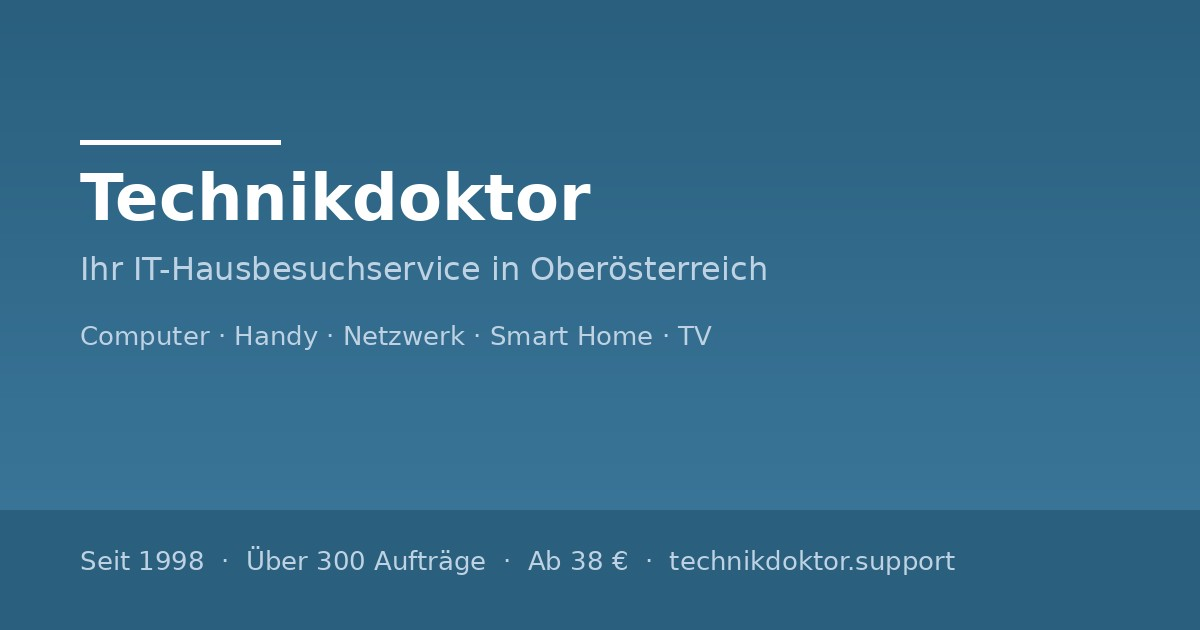
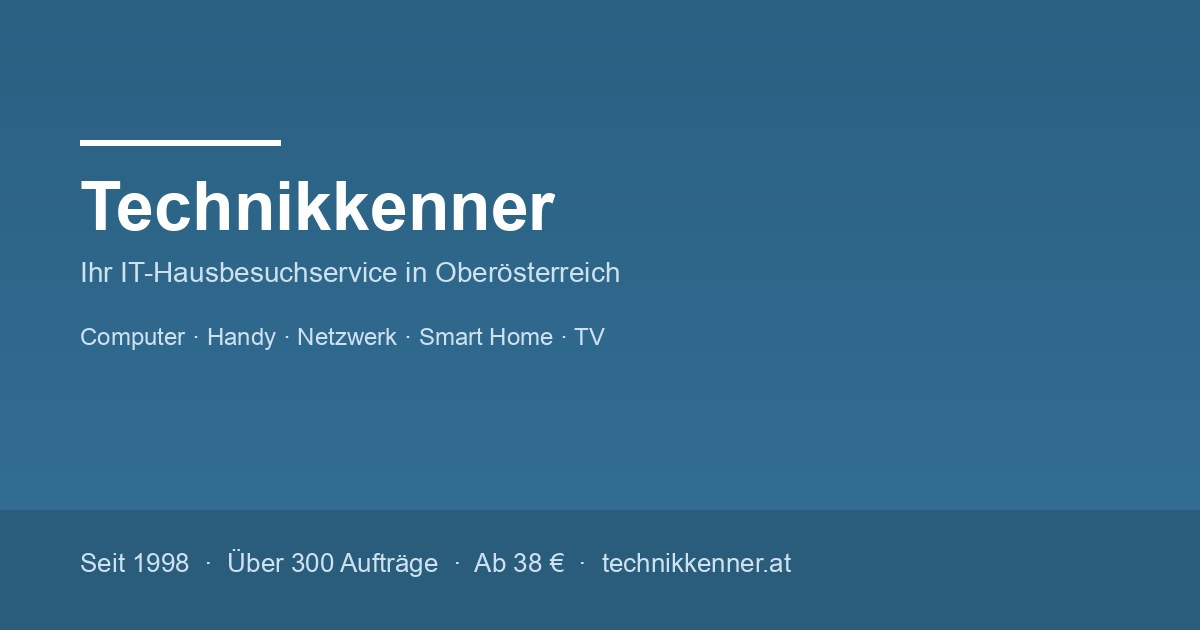
Rename site to Technikkenner and move to technikkenner.at / Website in Technikkenner umbenennen und auf technikkenner.at umstellen
Contact e-mail stays hilfe@technikdoktor.support; add Leonding, Traun, Wels, Eferding to areaServed; new preview image. / Kontakt-E-Mail bleibt hilfe@technikdoktor.support; Leonding, Traun, Wels, Eferding als Einzugsorte; neues Vorschaubild.

diff --git a/index.html b/index.html
@@ -3,12 +3,12 @@
 <head>
     <meta charset="UTF-8">
     <meta name="viewport" content="width=device-width, initial-scale=1.0">
-    <title>Technikdoktor – IT-Hausbesuch in Linz & Oberösterreich | Computer, Handy & Netzwerk Hilfe</title>
-    <meta name="description" content="Technikdoktor – Ihr mobiler IT-Hausbesuchservice seit 1998. Über 300 Aufträge seit Juli 2025. Computer, Handy, WLAN, Smart-Home Hilfe direkt bei Ihnen zu Hause in Linz & ganz Oberösterreich. Ab 38 €.">
-    <meta name="keywords" content="IT Hausbesuch Linz, Computer Hilfe Oberösterreich, Handy Hilfe, WLAN Probleme, Technikdoktor, PC Reparatur Hausbesuch, Smart Home Einrichtung, Netzwerk Hilfe, Technik Support Linz, Smartphone Hilfe Oberösterreich">
+    <title>Technikkenner – IT-Hausbesuch in Linz & Oberösterreich | Computer, Handy & Netzwerk Hilfe</title>
+    <meta name="description" content="Technikkenner – Ihr mobiler IT-Hausbesuchservice seit 1998. Über 300 Aufträge seit Juli 2025. Computer, Handy, WLAN, Smart-Home Hilfe direkt bei Ihnen zu Hause in Linz & ganz Oberösterreich. Ab 38 €.">
+    <meta name="keywords" content="IT Hausbesuch Linz, Computer Hilfe Oberösterreich, Handy Hilfe, WLAN Probleme, Technikkenner, PC Reparatur Hausbesuch, Smart Home Einrichtung, Netzwerk Hilfe, Technik Support Linz, Smartphone Hilfe Oberösterreich">
     <meta name="author" content="Christian Nouza – LinguaFlow e.U.">
     <meta name="robots" content="index, follow">
-    <link rel="canonical" href="https://technikdoktor.support/">
+    <link rel="canonical" href="https://technikkenner.at/">
 
     <!-- Favicon -->
     <link rel="icon" type="image/png" href="favicon.png">
@@ -16,20 +16,20 @@
 
     <!-- Open Graph / Facebook -->
     <meta property="og:type" content="website">
-    <meta property="og:url" content="https://technikdoktor.support/">
-    <meta property="og:title" content="Technikdoktor – IT-Hausbesuch in Linz & Oberösterreich">
+    <meta property="og:url" content="https://technikkenner.at/">
+    <meta property="og:title" content="Technikkenner – IT-Hausbesuch in Linz & Oberösterreich">
     <meta property="og:description" content="Seit 1998 Ihr mobiler IT-Hausbesuchservice. Computer, Handy, Netzwerk & mehr – persönlich, verständlich, zuverlässig. Ab 38 €.">
     <meta property="og:locale" content="de_AT">
-    <meta property="og:site_name" content="Technikdoktor">
-    <meta property="og:image" content="https://technikdoktor.support/og-image.jpg">
+    <meta property="og:site_name" content="Technikkenner">
+    <meta property="og:image" content="https://technikkenner.at/og-image.jpg">
     <meta property="og:image:width" content="1200">
     <meta property="og:image:height" content="630">
 
     <!-- Twitter Card -->
     <meta name="twitter:card" content="summary_large_image">
-    <meta name="twitter:title" content="Technikdoktor – IT-Hausbesuch in Linz & Oberösterreich">
+    <meta name="twitter:title" content="Technikkenner – IT-Hausbesuch in Linz & Oberösterreich">
     <meta name="twitter:description" content="Seit 1998 Ihr mobiler IT-Hausbesuchservice. Computer, Handy, Netzwerk & mehr – persönlich, verständlich, zuverlässig.">
-    <meta name="twitter:image" content="https://technikdoktor.support/og-image.jpg">
+    <meta name="twitter:image" content="https://technikkenner.at/og-image.jpg">
 
     <!-- Geo Meta Tags -->
     <meta name="geo.region" content="AT-4">
@@ -377,7 +377,7 @@
                 <path d="M15 29h6M16 10V8M20 10V8" stroke="#fff" stroke-width="2" stroke-linecap="round"/>
                 <circle cx="18" cy="18" r="2" fill="#fff"/>
             </svg>
-            Technikdoktor
+            Technikkenner
         </a>
         <ul class="nav-links" id="navLinks">
             <li><a href="#services">Leistungen</a></li>
@@ -448,7 +448,7 @@
     <div class="container">
         <div class="about-grid">
             <div class="about-image fade-in">
-                <img src="christian.jpg" alt="Christian Nouza – Technikdoktor">
+                <img src="christian.jpg" alt="Christian Nouza – Technikkenner">
                 <div class="about-image-badge">Seit 1998</div>
             </div>
             <div class="about-text fade-in">
@@ -652,7 +652,7 @@
     <div class="container">
         <div class="footer-grid">
             <div>
-                <div class="footer-brand">Technikdoktor</div>
+                <div class="footer-brand">Technikkenner</div>
                 <p class="footer-desc">Ihr mobiler IT-Hausbesuchservice seit 1998. Persönlich, verständlich, zuverlässig – direkt bei Ihnen zu Hause in Oberösterreich.</p>
             </div>
             <div>
@@ -678,7 +678,7 @@
             </div>
         </div>
         <div class="footer-bottom">
-            <span>&copy; 2026 LinguaFlow e.U. – Technikdoktor. Alle Rechte vorbehalten.</span>
+            <span>&copy; 2026 LinguaFlow e.U. – Technikkenner. Alle Rechte vorbehalten.</span>
             <span>Linzer Straße 17, 4100 Ottensheim</span>
         </div>
     </div>
@@ -701,11 +701,11 @@
 {
   "@context": "https://schema.org",
   "@type": "LocalBusiness",
-  "@id": "https://technikdoktor.support",
-  "name": "Technikdoktor – IT-Hausbesuchservice",
-  "alternateName": "Technikdoktor",
+  "@id": "https://technikkenner.at",
+  "name": "Technikkenner – IT-Hausbesuchservice",
+  "alternateName": "Technikkenner",
   "description": "Mobiler IT-Hausbesuchservice seit 1998. Computer, Handy, Netzwerk, Smart-Home – persönlich, verständlich, zuverlässig. Direkt bei Ihnen zu Hause in Linz und ganz Oberösterreich.",
-  "url": "https://technikdoktor.support",
+  "url": "https://technikkenner.at",
   "telephone": "+4368110580336",
   "email": "hilfe@technikdoktor.support",
   "foundingDate": "1998",
@@ -721,7 +721,11 @@
     {
       "@type": "City",
       "name": "Linz"
-    }
+    },
+    { "@type": "City", "name": "Leonding" },
+    { "@type": "City", "name": "Traun" },
+    { "@type": "City", "name": "Wels" },
+    { "@type": "City", "name": "Eferding" }
   ],
   "address": {
     "@type": "PostalAddress",
@@ -740,7 +744,7 @@
     "@type": "Person",
     "name": "Christian Nouza"
   },
-  "legalName": "LinguaFlow e.U. – Technikdoktor",
+  "legalName": "LinguaFlow e.U. – Technikkenner",
   "taxID": "ATU81988814",
   "hasOfferCatalog": {
     "@type": "OfferCatalog",

diff --git a/agb.html b/agb.html
@@ -3,8 +3,8 @@
 <head>
     <meta charset="UTF-8">
     <meta name="viewport" content="width=device-width, initial-scale=1.0">
-    <title>AGB – Technikdoktor</title>
-    <meta name="description" content="Allgemeine Geschäftsbedingungen von Technikdoktor – IT-Hausbesuchservice in Oberösterreich.">
+    <title>AGB – Technikkenner</title>
+    <meta name="description" content="Allgemeine Geschäftsbedingungen von Technikkenner – IT-Hausbesuchservice in Oberösterreich.">
     <link rel="preconnect" href="https://fonts.googleapis.com">
     <link rel="preconnect" href="https://fonts.gstatic.com" crossorigin>
     <link href="https://fonts.googleapis.com/css2?family=Inter:wght@300;400;500;600;700&family=Merriweather:wght@400;700&display=swap" rel="stylesheet">
@@ -59,7 +59,7 @@
     <div class="nav-inner">
         <a href="index.html" class="nav-logo">
             <svg viewBox="0 0 36 36" fill="none"><rect width="36" height="36" rx="10" fill="#2E7D32"/><path d="M10 18.5C10 14 13.5 10 18 10s8 4 8 8.5c0 3-1.5 5.5-4 7v2.5a1 1 0 01-1 1h-6a1 1 0 01-1-1v-2.5c-2.5-1.5-4-4-4-7z" stroke="#fff" stroke-width="2" stroke-linecap="round" stroke-linejoin="round"/><path d="M15 29h6M16 10V8M20 10V8" stroke="#fff" stroke-width="2" stroke-linecap="round"/><circle cx="18" cy="18" r="2" fill="#fff"/></svg>
-            Technikdoktor
+            Technikkenner
         </a>
         <a href="index.html" class="nav-back">
             <svg fill="none" viewBox="0 0 24 24" stroke="currentColor" stroke-width="2"><path stroke-linecap="round" d="M15 19l-7-7 7-7"/></svg>
@@ -71,19 +71,19 @@
 <div class="container">
     <div class="page-header">
         <h1>Allgemeine Geschäftsbedingungen</h1>
-        <p>Gültig für alle technischen Hilfeleistungen von Technikdoktor</p>
+        <p>Gültig für alle technischen Hilfeleistungen von Technikkenner</p>
     </div>
 
     <div class="content-card">
         <h2>§ 1 Geltungsbereich</h2>
-        <p>Diese Allgemeinen Geschäftsbedingungen (AGB) gelten für alle technischen Hilfeleistungen vor Ort, die von LinguaFlow e.U. – Technikdoktor (im Folgenden „Technikdoktor") erbracht werden.</p>
+        <p>Diese Allgemeinen Geschäftsbedingungen (AGB) gelten für alle technischen Hilfeleistungen vor Ort, die von LinguaFlow e.U. – Technikkenner (im Folgenden „Technikkenner") erbracht werden.</p>
         <p>Mit der Terminvereinbarung akzeptiert der Kunde diese AGB.</p>
 
         <h2>§ 2 Vertragsabschluss</h2>
-        <p>Ein Vertrag kommt durch telefonische, schriftliche oder digitale Terminvereinbarung zustande. Die Bestätigung des Termins durch den Technikdoktor stellt die Vertragsannahme dar.</p>
+        <p>Ein Vertrag kommt durch telefonische, schriftliche oder digitale Terminvereinbarung zustande. Die Bestätigung des Termins durch den Technikkenner stellt die Vertragsannahme dar.</p>
 
         <h2>§ 3 Leistungen</h2>
-        <p>Der Technikdoktor erbringt technische Dienstleistungen im Bereich IT-Support, Geräteeinrichtung, Netzwerkkonfiguration und verwandte Tätigkeiten. Es handelt sich um Dienstleistungen ohne Erfolgsgarantie, da externe Faktoren wie Hardware-Zustand, Softwarekompatibilität und Drittanbieter-Dienste Einfluss auf das Ergebnis nehmen können.</p>
+        <p>Der Technikkenner erbringt technische Dienstleistungen im Bereich IT-Support, Geräteeinrichtung, Netzwerkkonfiguration und verwandte Tätigkeiten. Es handelt sich um Dienstleistungen ohne Erfolgsgarantie, da externe Faktoren wie Hardware-Zustand, Softwarekompatibilität und Drittanbieter-Dienste Einfluss auf das Ergebnis nehmen können.</p>
 
         <h2>§ 4 Gebühren</h2>
         <div class="highlight-box">
@@ -99,7 +99,7 @@
         <p>Eine kostenlose Stornierung ist bis 3 Stunden vor dem vereinbarten Termin telefonisch möglich. Bei verspäteter Stornierung oder Nichterscheinen wird der Mindesttarif zuzüglich etwaiger Anfahrtskosten verrechnet.</p>
 
         <h2>§ 7 Haftung</h2>
-        <p>Die Haftung des Technikdoktors beschränkt sich auf Vorsatz und grobe Fahrlässigkeit. Ausgeschlossen sind insbesondere:</p>
+        <p>Die Haftung des Technikkenners beschränkt sich auf Vorsatz und grobe Fahrlässigkeit. Ausgeschlossen sind insbesondere:</p>
         <ul>
             <li>Datenverlust (eine vorherige Datensicherung wird empfohlen)</li>
             <li>Folgeschäden und entgangener Gewinn</li>
@@ -113,13 +113,13 @@
         <p>Es gilt österreichisches Recht. Gerichtsstand ist Linz, Österreich.</p>
 
         <h2>§ 10 Schlussbestimmungen</h2>
-        <p>Sollten einzelne Bestimmungen dieser AGB unwirksam sein oder werden, bleibt die Wirksamkeit der übrigen Bestimmungen unberührt. Der Technikdoktor behält sich das Recht vor, diese AGB jederzeit anzupassen.</p>
+        <p>Sollten einzelne Bestimmungen dieser AGB unwirksam sein oder werden, bleibt die Wirksamkeit der übrigen Bestimmungen unberührt. Der Technikkenner behält sich das Recht vor, diese AGB jederzeit anzupassen.</p>
     </div>
 </div>
 
 <footer>
     <div class="container">
-        <p>&copy; 2026 LinguaFlow e.U. – Technikdoktor &middot; <a href="impressum.html">Impressum</a> &middot; <a href="datenschutz.html">Datenschutz</a></p>
+        <p>&copy; 2026 LinguaFlow e.U. – Technikkenner &middot; <a href="impressum.html">Impressum</a> &middot; <a href="datenschutz.html">Datenschutz</a></p>
     </div>
 </footer>
 

diff --git a/impressum.html b/impressum.html
@@ -3,8 +3,8 @@
 <head>
     <meta charset="UTF-8">
     <meta name="viewport" content="width=device-width, initial-scale=1.0">
-    <title>Impressum – Technikdoktor</title>
-    <meta name="description" content="Impressum von Technikdoktor – LinguaFlow e.U., Christian Nouza, IT-Hausbesuchservice in Oberösterreich.">
+    <title>Impressum – Technikkenner</title>
+    <meta name="description" content="Impressum von Technikkenner – LinguaFlow e.U., Christian Nouza, IT-Hausbesuchservice in Oberösterreich.">
     <link rel="preconnect" href="https://fonts.googleapis.com">
     <link rel="preconnect" href="https://fonts.gstatic.com" crossorigin>
     <link href="https://fonts.googleapis.com/css2?family=Inter:wght@300;400;500;600;700&family=Merriweather:wght@400;700&display=swap" rel="stylesheet">
@@ -63,7 +63,7 @@
     <div class="nav-inner">
         <a href="index.html" class="nav-logo">
             <svg viewBox="0 0 36 36" fill="none"><rect width="36" height="36" rx="10" fill="#2E7D32"/><path d="M10 18.5C10 14 13.5 10 18 10s8 4 8 8.5c0 3-1.5 5.5-4 7v2.5a1 1 0 01-1 1h-6a1 1 0 01-1-1v-2.5c-2.5-1.5-4-4-4-7z" stroke="#fff" stroke-width="2" stroke-linecap="round" stroke-linejoin="round"/><path d="M15 29h6M16 10V8M20 10V8" stroke="#fff" stroke-width="2" stroke-linecap="round"/><circle cx="18" cy="18" r="2" fill="#fff"/></svg>
-            Technikdoktor
+            Technikkenner
         </a>
         <a href="index.html" class="nav-back">
             <svg fill="none" viewBox="0 0 24 24" stroke="currentColor" stroke-width="2"><path stroke-linecap="round" d="M15 19l-7-7 7-7"/></svg>
@@ -82,7 +82,7 @@
         <h2>Unternehmensangaben</h2>
         <div class="info-grid">
             <span class="info-label">Firma</span>
-            <span class="info-value">LinguaFlow e.U. – Technikdoktor</span>
+            <span class="info-value">LinguaFlow e.U. – Technikkenner</span>
             <span class="info-label">Inhaber</span>
             <span class="info-value">Christian Nouza</span>
             <span class="info-label">Adresse</span>
@@ -122,7 +122,7 @@
 
 <footer>
     <div class="container">
-        <p>&copy; 2026 LinguaFlow e.U. – Technikdoktor &middot; <a href="agb.html">AGB</a> &middot; <a href="datenschutz.html">Datenschutz</a></p>
+        <p>&copy; 2026 LinguaFlow e.U. – Technikkenner &middot; <a href="agb.html">AGB</a> &middot; <a href="datenschutz.html">Datenschutz</a></p>
     </div>
 </footer>
 

diff --git a/datenschutz.html b/datenschutz.html
@@ -3,8 +3,8 @@
 <head>
     <meta charset="UTF-8">
     <meta name="viewport" content="width=device-width, initial-scale=1.0">
-    <title>Datenschutzerklärung – Technikdoktor</title>
-    <meta name="description" content="Datenschutzerklärung von Technikdoktor – Informationen zum Umgang mit Ihren personenbezogenen Daten.">
+    <title>Datenschutzerklärung – Technikkenner</title>
+    <meta name="description" content="Datenschutzerklärung von Technikkenner – Informationen zum Umgang mit Ihren personenbezogenen Daten.">
     <link rel="preconnect" href="https://fonts.googleapis.com">
     <link rel="preconnect" href="https://fonts.gstatic.com" crossorigin>
     <link href="https://fonts.googleapis.com/css2?family=Inter:wght@300;400;500;600;700&family=Merriweather:wght@400;700&display=swap" rel="stylesheet">
@@ -61,7 +61,7 @@
     <div class="nav-inner">
         <a href="index.html" class="nav-logo">
             <svg viewBox="0 0 36 36" fill="none"><rect width="36" height="36" rx="10" fill="#2E7D32"/><path d="M10 18.5C10 14 13.5 10 18 10s8 4 8 8.5c0 3-1.5 5.5-4 7v2.5a1 1 0 01-1 1h-6a1 1 0 01-1-1v-2.5c-2.5-1.5-4-4-4-7z" stroke="#fff" stroke-width="2" stroke-linecap="round" stroke-linejoin="round"/><path d="M15 29h6M16 10V8M20 10V8" stroke="#fff" stroke-width="2" stroke-linecap="round"/><circle cx="18" cy="18" r="2" fill="#fff"/></svg>
-            Technikdoktor
+            Technikkenner
         </a>
         <a href="index.html" class="nav-back">
             <svg fill="none" viewBox="0 0 24 24" stroke="currentColor" stroke-width="2"><path stroke-linecap="round" d="M15 19l-7-7 7-7"/></svg>
@@ -79,7 +79,7 @@
     <div class="content-card">
         <h2>1. Verantwortlicher</h2>
         <div class="info-box">
-            <p><strong>LinguaFlow e.U. – Technikdoktor</strong></p>
+            <p><strong>LinguaFlow e.U. – Technikkenner</strong></p>
             <p>Christian Nouza</p>
             <p>Linzer Straße 17, 4100 Ottensheim, Österreich</p>
             <p>FN 651220b · Landesgericht Linz · UID: ATU81988814</p>
@@ -164,7 +164,7 @@
 
 <footer>
     <div class="container">
-        <p>&copy; 2026 LinguaFlow e.U. – Technikdoktor &middot; <a href="impressum.html">Impressum</a> &middot; <a href="agb.html">AGB</a></p>
+        <p>&copy; 2026 LinguaFlow e.U. – Technikkenner &middot; <a href="impressum.html">Impressum</a> &middot; <a href="agb.html">AGB</a></p>
     </div>
 </footer>
 
